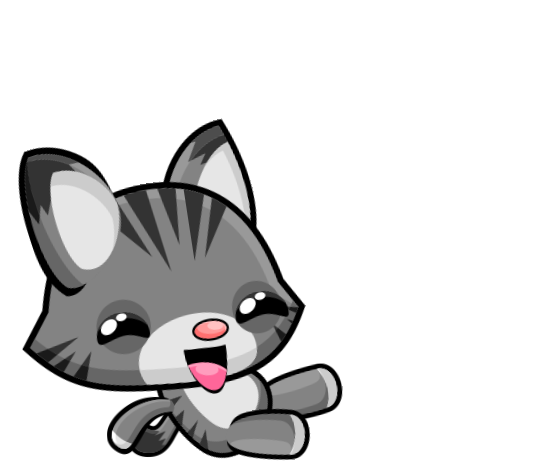
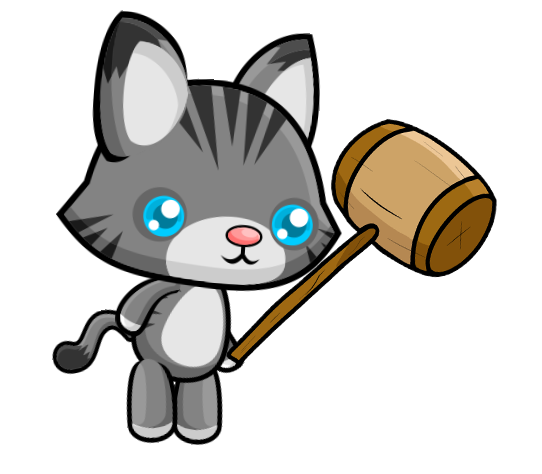
bổ sung anim attack
bổ sung anim attack
fix bug win xong chơi lại chưa xóa dữ liệu cũ
thêm anim enemy die sau khi hoàn thành cả 3 màn

diff --git a/js/scenes/QuizScene.js b/js/scenes/QuizScene.js
@@ -65,20 +65,29 @@ export default function ({
 
   async function attackAnimation(onDone) {
 
-    mascotInstance.el.style.zIndex = 5000;
+    mascotInstance.el.style.zIndex = 9000;
+    enemyMascotInstance.el.style.zIndex = 8000;
 
     // 1⃣ player chạy tới enemy
     await mascotInstance.run({
       from: -50,
       to: 900,       // gần enemy
-      duration: 5000,
+      duration: 3500,
     });
 
     // 2⃣ tấn công
     mascotInstance.attack();
 
-    // 3⃣ enemy trúng đòn
-    await enemyMascotInstance.sad();
+    // ⏳ đợi 1.2s sau khi bắt đầu attack
+    await wait(1200);
+
+    if (gameState.attackState >= 2) {
+      // enemy chết
+      await enemyMascotInstance.dead();
+    } else {
+      // 3⃣ enemy trúng đòn
+      await enemyMascotInstance.sad();
+    }
 
     // 4⃣ enemy biến mất
     if (enemyMascotInstance?.el) {
@@ -99,13 +108,12 @@ export default function ({
     });
 
     mascotInstance.el.style.zIndex = "";
+    gameState.attackState++;
 
     // 6⃣ qua màn
     onDone && onDone();
   }
-
-
-
+  
   // ================= UTIL =================
   function updateStarProgress() {
     const starWrap = div.querySelector(".star-progress");
@@ -154,6 +162,11 @@ export default function ({
       panel.classList.remove("quiz-hide");
     }
   }
+
+  function wait(ms) {
+    return new Promise(r => setTimeout(r, ms));
+  }
+
   // ====== RENDER ======
   function render() {
 

diff --git a/js/components/Mascot/Mascot.js b/js/components/Mascot/Mascot.js
@@ -69,6 +69,23 @@ export default function Mascot({
     });
   }
 
+  function dead() {
+    return new Promise(resolve => {
+      stopCurrent();
+      currentState = "dead";
+
+      currentAnim = playAnimation({
+        img,
+        path: `/assets/mascots/${mascotName}/dead`,
+        loop: false,
+        onEnd: () => {
+          idle();
+          resolve();
+        },
+      });
+    });
+  }
+
   function run({ from = -200, to = 1400, duration = 800 } = {}) {
     return new Promise(resolve => {
       stopCurrent();
@@ -115,6 +132,7 @@ export default function Mascot({
         img,
         path: `/assets/mascots/${mascotName}/attack`,
         loop: false,
+        totalFrames: 13,
         onEnd: () => {
           idle();
           resolve();
@@ -133,6 +151,7 @@ export default function Mascot({
     idle,
     happy,
     sad,
+    dead,
     run,
     attack,
     getState: () => currentState,

diff --git a/js/scenes/LoadingScene.js b/js/scenes/LoadingScene.js
@@ -76,8 +76,14 @@ export default function LoadingScene(allQuestions = null, startIndex = 0, level 
             correctCount: gameState.correctCount, // hoặc lưu state tổng
             totalQuestions: allQuestions.length,
             bg: background.bg,
-            onRestart: () => router.navigate(() => LoadingScene()),
-            onGoHome: () => router.navigate(() => StartScene()),
+            onRestart: () => {
+              gameState.reset();
+              router.navigate(() => LoadingScene());
+            },
+            onGoHome: () => {
+              gameState.reset();
+              router.navigate(() => StartScene());
+            }
           })
         );
         return;

diff --git a/css/quiz.css b/css/quiz.css
@@ -41,23 +41,22 @@
   display: flex;
   justify-content: center;
   align-items: flex-end;
-  pointer-events: none;
   z-index: 25;
 }
 
 .mascot-area.player {
-  left: 150px;
+  left: 120px;
   bottom: 20px;
 }
 
 .mascot-area.enemy {
-  right: 230px;
+  right: 250px;
   bottom: 20px;
 }
 
 .mascot-area img {
-  height: 340px;
-  width: auto;
+  height: auto;
+  width: 500px;
   object-fit: contain;
   transform: none !important;
 }
@@ -743,8 +742,6 @@
   transform: scale(0.9);
   transition: 0.4s ease;
 }
-
-
 
 /* =========================
    LEVEL EFFECTS

diff --git a/js/state/gameState.js b/js/state/gameState.js
@@ -1,9 +1,11 @@
 export const gameState = {
   hearts: 3,
   correctCount: 0,
+  attackState: 0,
 
   reset() {
     this.hearts = 3;
     this.correctCount = 0;
+    this.attackState = 0;
   }
 };
